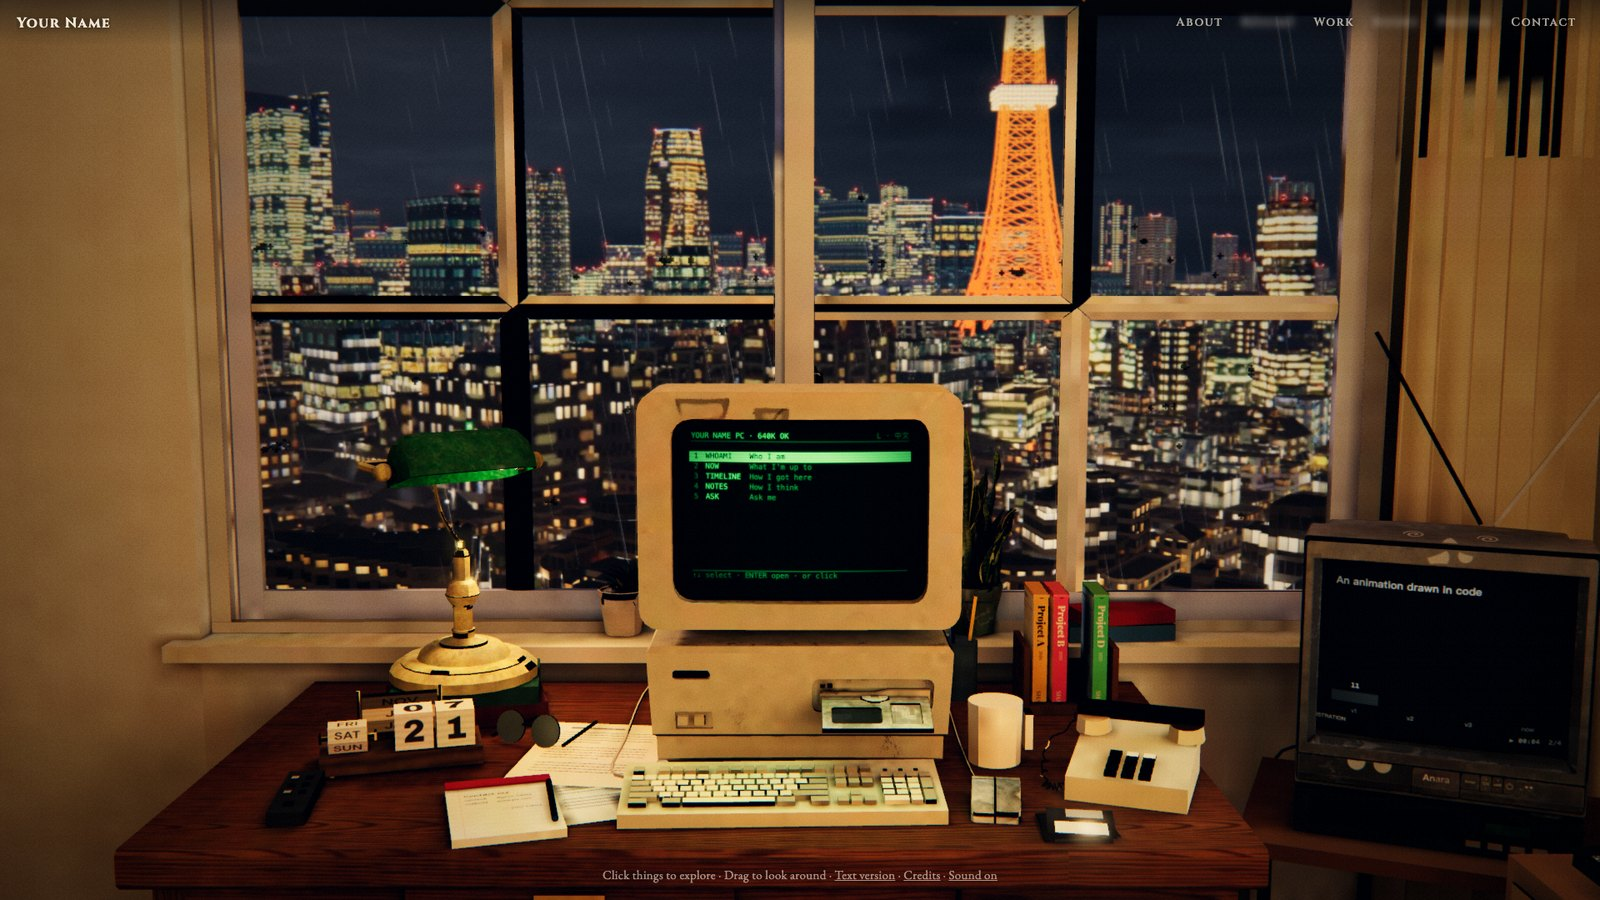
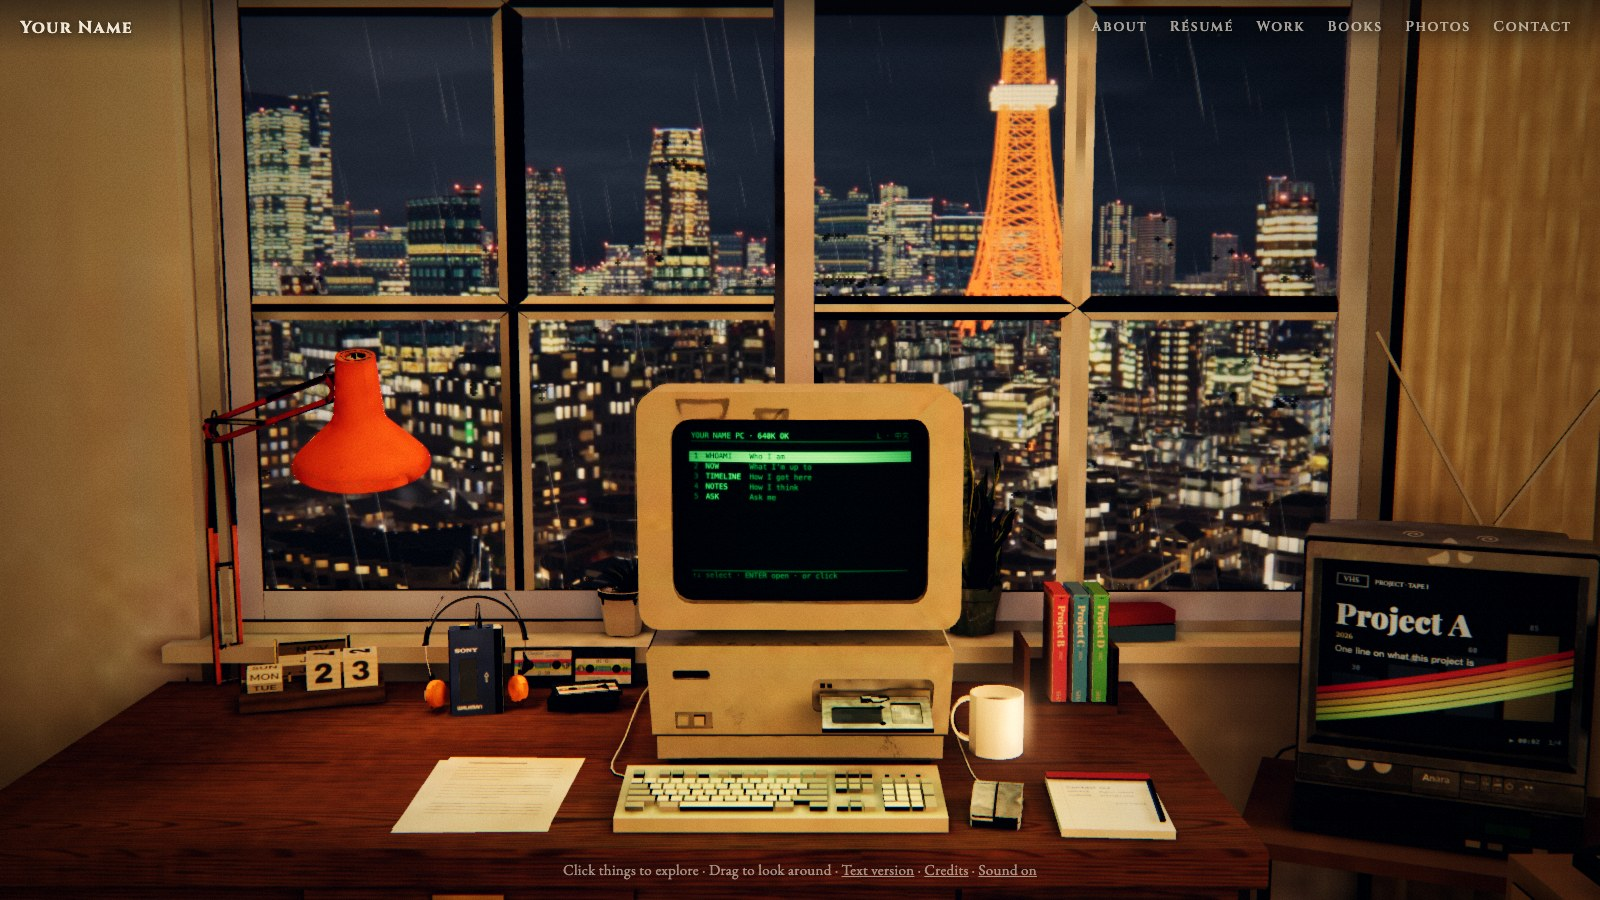
README: new screenshots of the current room
- Retake the hero image and the six gallery shots in the current room
  (arm lamp, Walkman, desk calendar, English sample books and résumé).
- Add two shots: turning left to the bookcase, and the record player with
  its record card open.

diff --git a/README.md b/README.md
@@ -19,7 +19,7 @@
   <a href="#third-party-assets">Credits</a>
 </p>
 
-![A desk at a city window at night: an old computer, a green desk lamp, a telephone and a TV playing a project](docs/images/hero-room.jpg)
+![A desk at a rainy night window over Tokyo, with Tokyo Tower lit up outside: an old computer, an orange arm lamp, a Walkman and cassettes, a desk calendar and a TV playing a project](docs/images/hero-room.jpg)
 
 - **The objects are the menu.** Click the computer, the printed pages, a tape, the bookshelf, the cork board or the notepad, and the camera flies over and opens that section. The books on the shelf are real books: click one and it slides out, flies up to you and opens. The top navigation bar and the address bar follow along, so every view has a link you can share.
 - **The view outside is alive.** A light rain keeps falling, stars and the Milky Way turn slowly through gaps in the clouds, office lights switch on and off, car lights crawl along the streets, and raindrops ripple the reflections on the river.
@@ -55,6 +55,14 @@ Inspired by the spatial personal site at felixrieseberg.com. The name, résumé,
   <tr>
     <td><b>Cork board · Photos</b><br>Aged photos are pinned under the wall clock, overlapping, with their corners curling. Up close you can drag them around.</td>
     <td><b>Lights</b><br>The desk lamp and the room lights can be switched off, leaving only the screens and the city outside. The image has a cinematic grade: warm lights bleed an orange-red halo, small bright lights draw thin horizontal streaks, and the focus follows whatever the camera is looking at.</td>
+  </tr>
+  <tr>
+    <td><img src="docs/images/room-left.jpg" alt="Turned to the left wall: a tall carved bookcase full of books, and a painting on an easel in the corner"></td>
+    <td><img src="docs/images/room-record.jpg" alt="The record player on the sideboard with side A of the Goldberg Variations on it, and its record card open"></td>
+  </tr>
+  <tr>
+    <td><b>Turn left · Bookcase</b><br>Drag left and the camera turns past a painting on an easel in the corner to the bookcase on the left wall. Every book on its shelves can be pulled out and read.</td>
+    <td><b>Record player · Music</b><br>Two records come with the template, sides A and B of the Open Goldberg Variations (public domain). Side A starts playing on its own; click the record player to change records, set the volume or switch the vinyl sound off.</td>
   </tr>
 </table>
 
